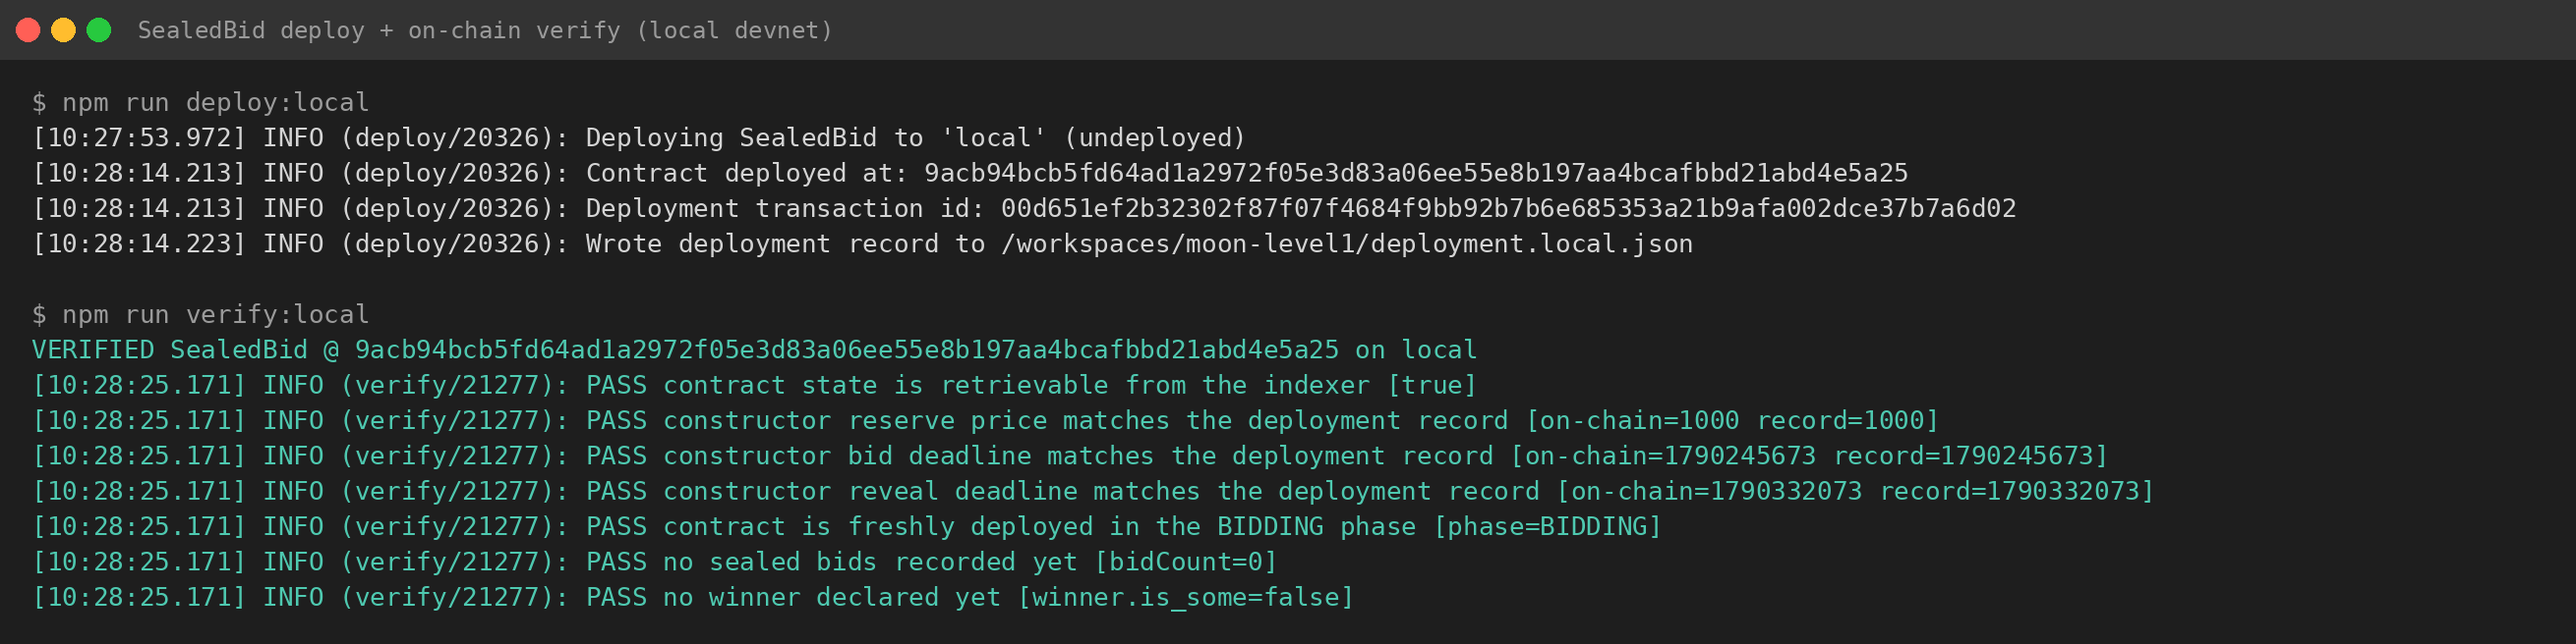
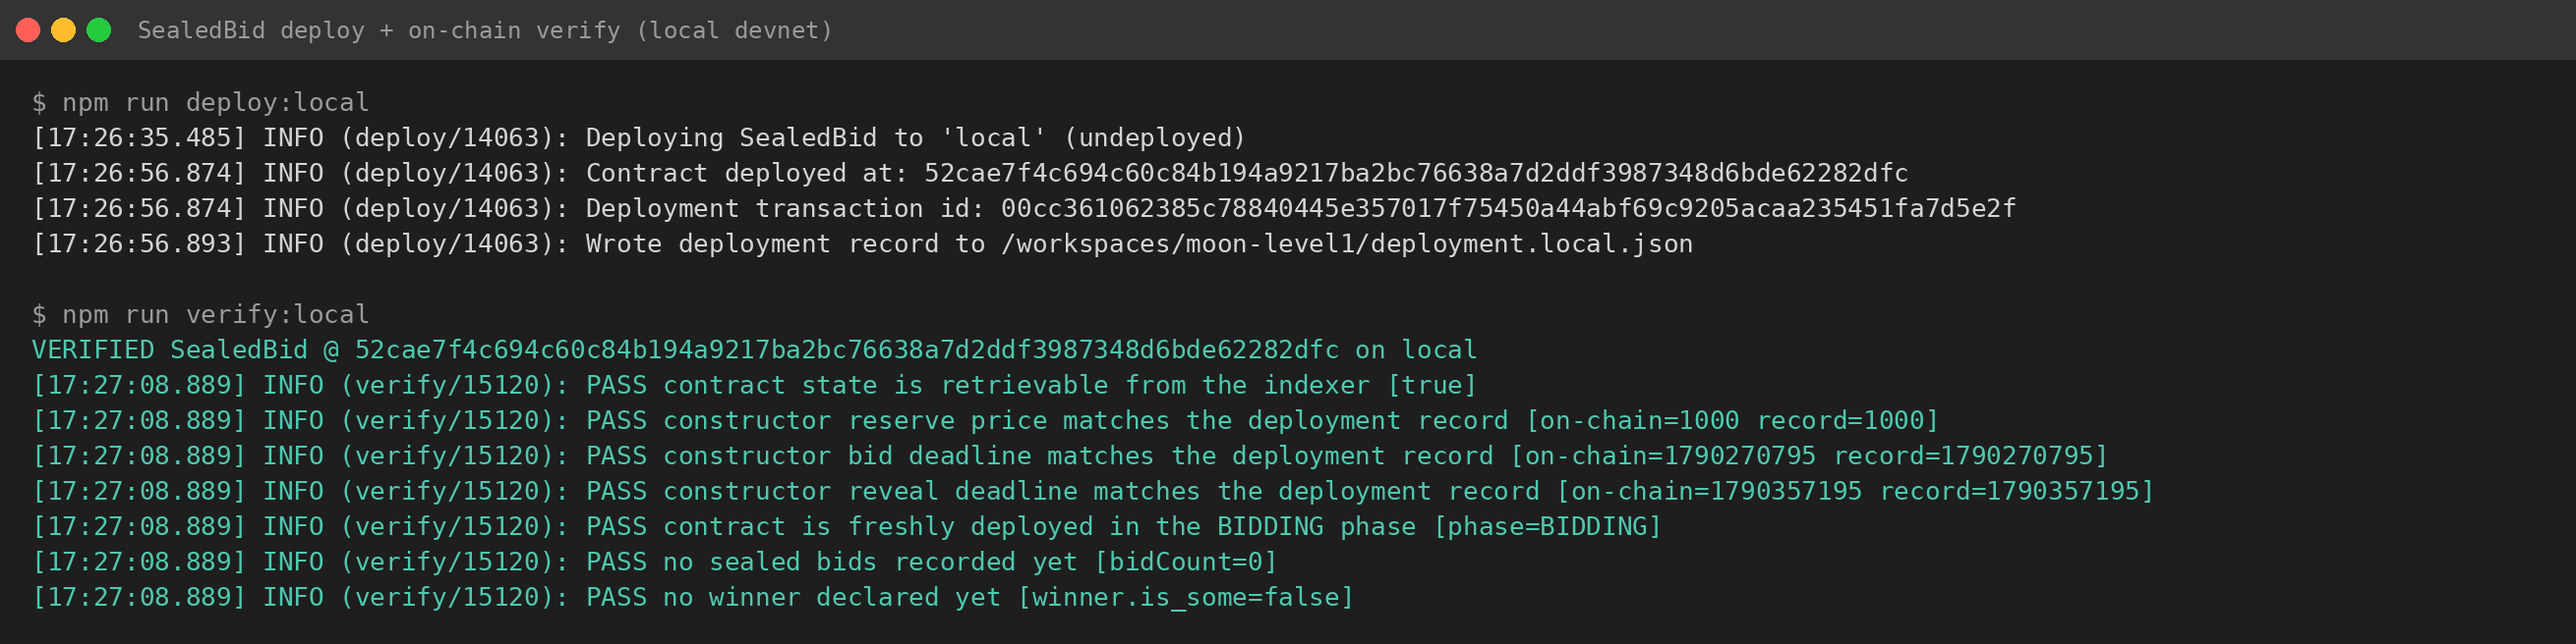
Re-verify the live workflow end to end and record the fresh deployment
Recompiled with the pinned toolchain (artifacts reproduced byte-for-byte),
redeployed to the local devnet, re-verified through the indexer-only path
(7/7 PASS), and regenerated the deploy screenshot from the new capture.

🤖 Generated with Codebuff

diff --git a/README.md b/README.md
@@ -262,9 +262,9 @@ indexer-only code path (`npm run verify:local`) — all seven checks `PASS`
 | Field | Value |
 | --- | --- |
 | Network | `local` (network id `undeployed`) |
[2 lines of base64/hex data omitted]
-| Constructor args | `reservePrice=1000`, `bidDeadline=1790245673`, `revealDeadline=1790332073` |
[2 lines of base64/hex data omitted]
+| Constructor args | `reservePrice=1000`, `bidDeadline=1790270795`, `revealDeadline=1790357195` |
 | Compiler | `compact` 0.31.1, language version 0.23 |
 | Verification | `npm run verify:local` — `VERIFIED`, state re-read from the devnet indexer |
 
